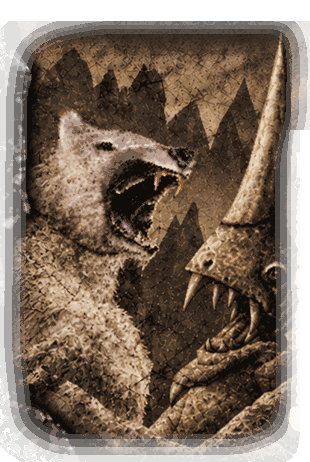
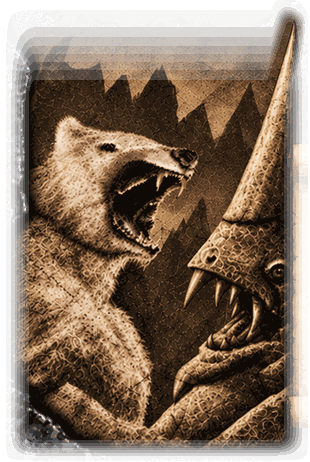
Replace OG beast overlay with approved seamless horn alignment

diff --git a/docs/ASSETS.md b/docs/ASSETS.md
@@ -3,7 +3,7 @@
 | Location | Origin | Notes |
 | --- | --- | --- |
 | `assets/` | Artwork supplied or developed for this launcher | No blanket asset license is assigned by this cleanup |
-| `assets/backgrounds/og-creatures-overlay.png` | Approved vintage-style redraw of the two Morrowind launcher beasts | 310×462 transparent, paletted PNG; positioned at launcher x50 y230 as a disabled, mouse-transparent child picture above `launcher.png` but beneath all headings, controls, and Happy Hour effects. Do not flatten the approved full-launcher mockup into `launcher.png`: that would bake duplicate interactive UI into the background. Keep the original background and functional layout unchanged. |
+| `assets/backgrounds/og-creatures-overlay.png` | Approved vintage-style redraw of the two Morrowind launcher beasts | 310×462 transparent, paletted PNG; updated October 31, 2026 from the approved seamless horn-and-bear rendering, with softly feathered artwork edges to avoid the former horizontal splice across the horn; positioned at launcher x50 y230 as a disabled, mouse-transparent child picture above `launcher.png` but beneath all headings, controls, and Happy Hour effects. Do not flatten the approved full-launcher mockup into `launcher.png`: that would bake duplicate interactive UI into the background. Keep the original background and functional layout unchanged. |
 | `assets/icons/species/` | Morrowind-inspired race portraits approved for TES3NP | Ten 512×512 transparent PNG masters plus matching multi-resolution ICOs. Retain the race slugs and alpha channel. |
 | `patches/markerless/tes3mp.exe` | Supplied markerless TES3MP 0.8.1 Win64 client | Preserve bytes; upstream licensing is separate from launcher source |
 | `patches/expansion-pack/` | Supplied NP Expansion Pack v0.1 | Learwolf's September 30, 2026 `ASSET USAGE & COMMUNITY GUIDELINES` limits assets to NP's TES3MP server ecosystem; separate launcher ZIP redistribution is not expressly authorized. Project owner reports Learwolf is jiub and has verbally approved TES3NP; obtain and retain explicit written confirmation covering redistribution in our launcher ZIP before marking this release gate complete. Preserve original `LICENSE.txt` unchanged. |
